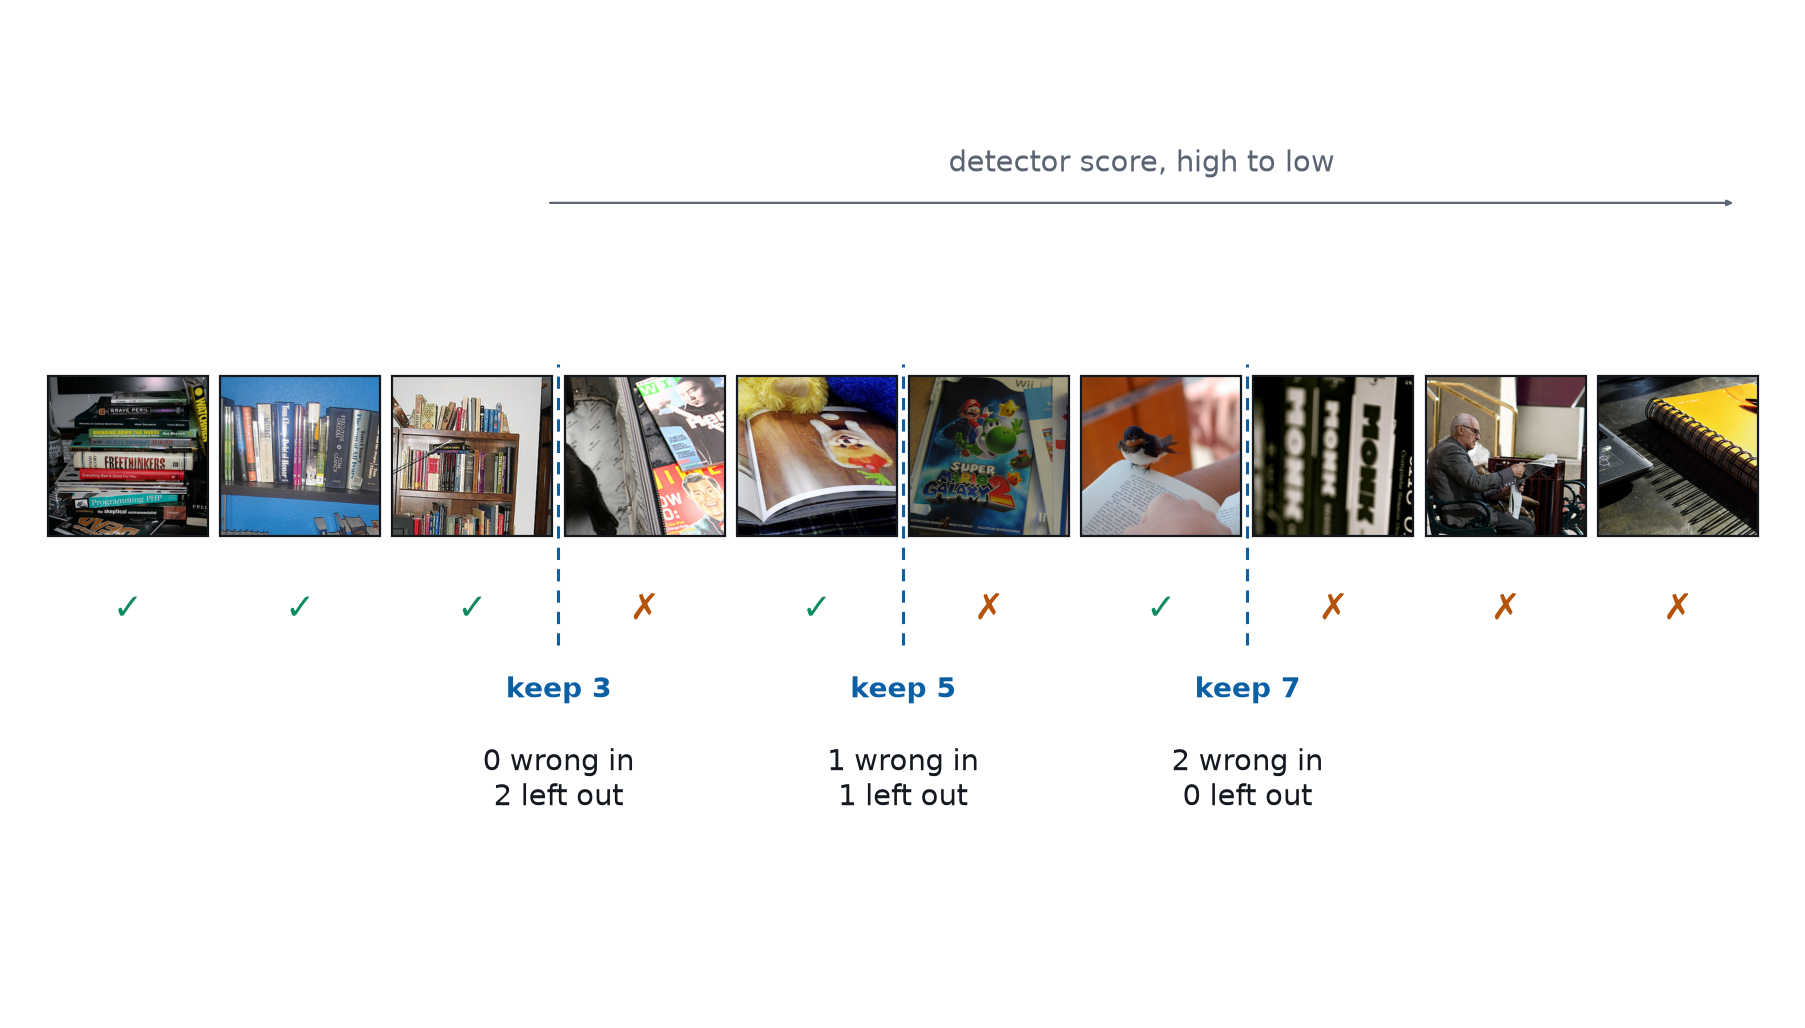
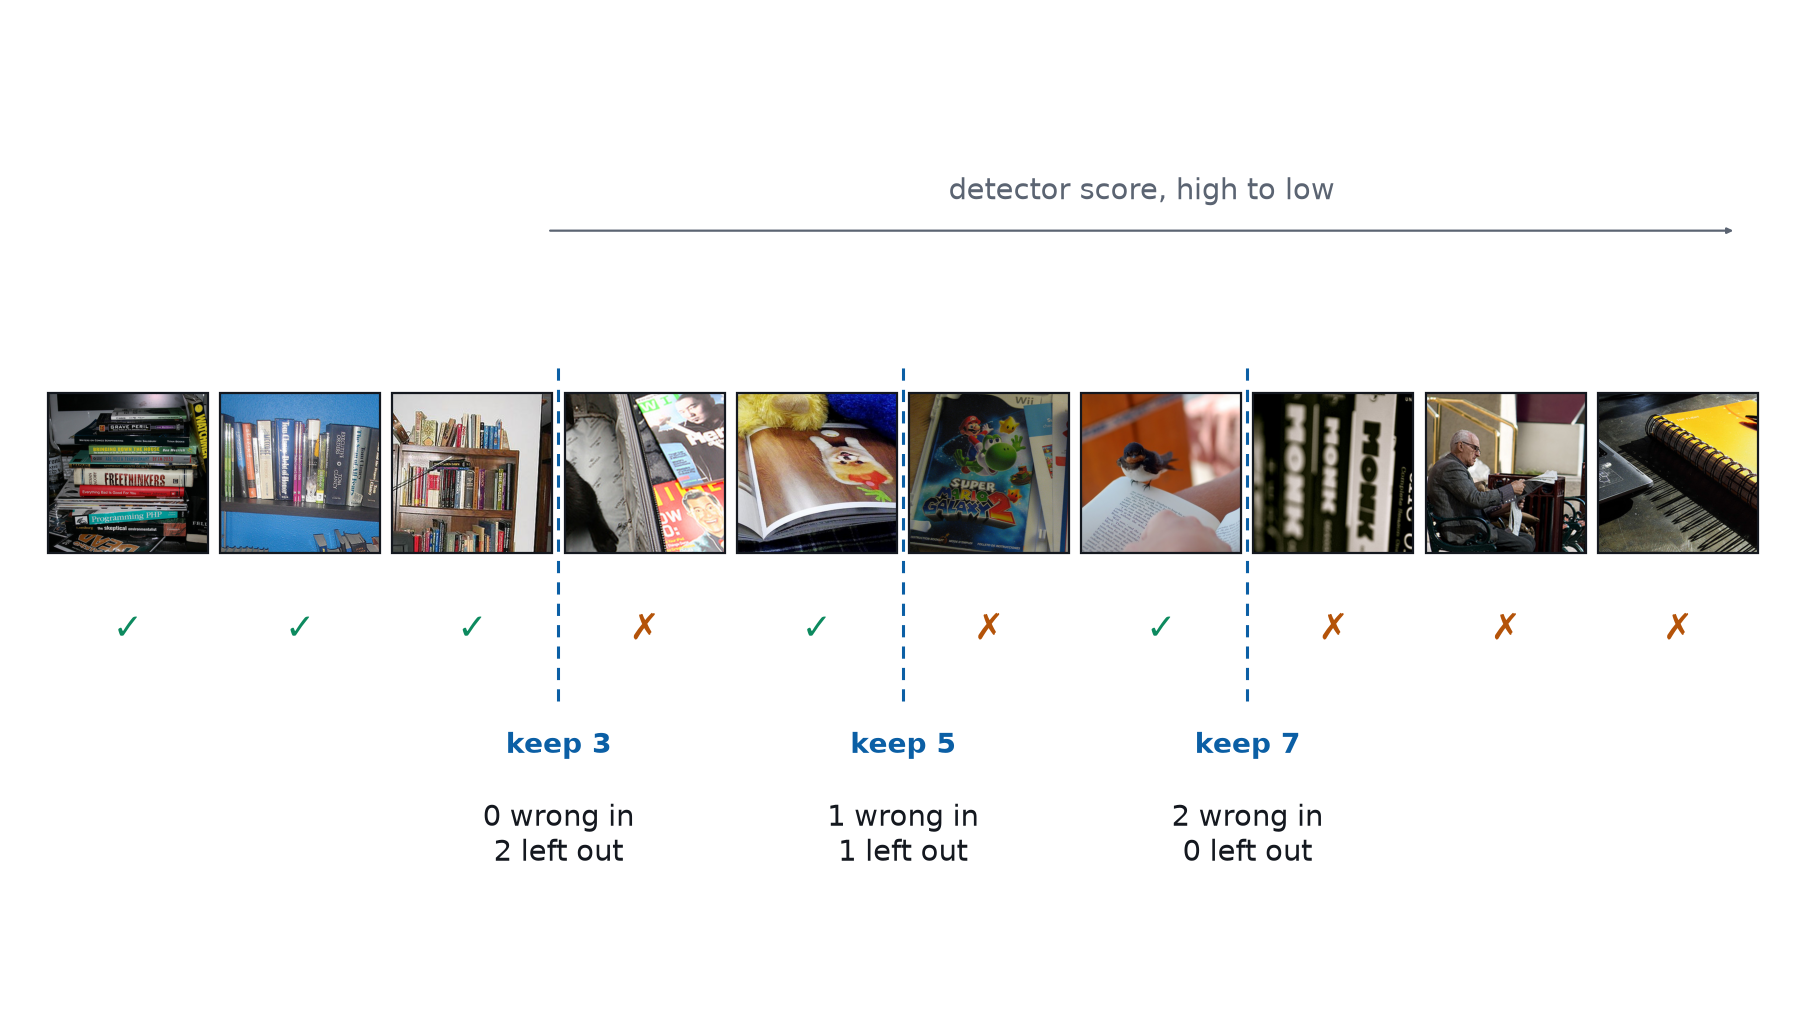
Slides: keep the page number in the text column on a split-background slide
Marpit renders a split slide's text into a foreignObject the width of the
text column, so nothing inside the section can reach the slide's right edge
and a number set 70px in from it lands mid-slide. Put it at the column's own
left margin, where it reads as that column's folio.

Also rebalances the new ranking figure vertically.

Claude-Session: https://claude.ai/code/session_016njwrdZPYbGotxBuA1XGgn

diff --git a/slides/themes/vtsearch.css b/slides/themes/vtsearch.css
@@ -419,6 +419,17 @@ section .pageno {
 section.lead .pageno,
 section.statement .pageno { display: none; }
 
+/* A split-background slide is not the full slide. Marpit renders its text into
+   a `foreignObject` the width of the text column, so nothing inside the section
+   can reach the slide's right edge — a number set 70px in from it lands in the
+   middle of the slide, reading as a stray numeral rather than a folio. Put it
+   at the column's own left margin instead, where it lines up with the text it
+   belongs to. */
+section[data-marpit-advanced-background-split] .pageno {
+  right: auto;
+  left: 70px;
+}
+
 /* A numbering group shares one page number, so "the slide with the mixture
    plot" still names one slide — but the room and the presenter still need to
    say *which* reveal. Every page of a group carries a letter after the number:

diff --git a/slides/figs/src/make-book-figs.py b/slides/figs/src/make-book-figs.py
@@ -189,9 +189,9 @@ RANK_GAP = 0.11
 #: The tile row's own top must stay under `RANK_TOP`, which is where the
 #: slide's title reserve ends; `save()` checks the written PNG, but a retune
 #: that breaks it should say so here first.
-RANK_TILE_Y = 4.30
-RANK_MARK_Y = 3.80
-RANK_CUT_LABEL_Y = 2.70
+RANK_TILE_Y = 4.15
+RANK_MARK_Y = 3.62
+RANK_CUT_LABEL_Y = 2.20
 
 
 assert RANK_TILE_Y + RANK_TILE <= RANK_TOP, "the tile row has grown into the title notch"
@@ -225,7 +225,7 @@ def _rank_stage(stage: int) -> plt.Figure:
     # The score axis, indented past the title notch and spending the right
     # margin to buy the width back — the standard repair for a figure whose top
     # row spans the drawing (slides/STYLE.md).
-    axis_y = 7.30
+    axis_y = 7.05
     ax.annotate(
         "",
         xy=(width - 0.5, axis_y),
